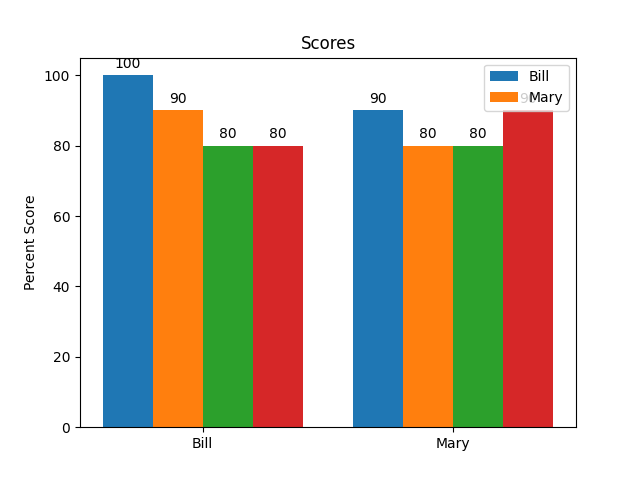
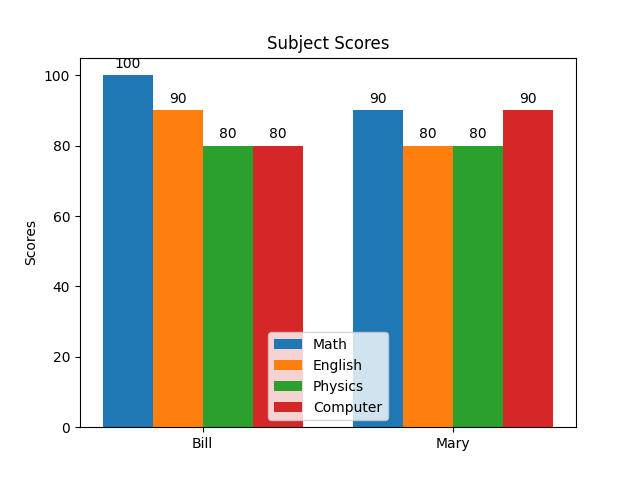
2nd commit

diff --git a/main.py b/main.py
@@ -11,7 +11,21 @@ labels = ['Math', 'English', 'Physics', 'Computer']
 names = ['Bill', 'Mary']
 
 # ******************************
-# Make your code
+fig, ax = plt.subplots()
+rects1 = ax.bar(x - 3*width/2, Math, width, label='Math')
+rects2 = ax.bar(x - width/2, English, width, label='English')
+rects3 = ax.bar(x + width/2, Physics, width, label='Physics')
+rects4 = ax.bar(x + 3*width/2, Computer, width, label='Computer')
+
+ax.set_ylabel('Scores')
+ax.set_title('Subject Scores')
+ax.set_xticks(x, names)
+ax.legend()
+
+ax.bar_label(rects1, padding=3)
+ax.bar_label(rects2, padding=3)
+ax.bar_label(rects3, padding=3)
+ax.bar_label(rects4, padding=3)
 # ******************************
 
 
